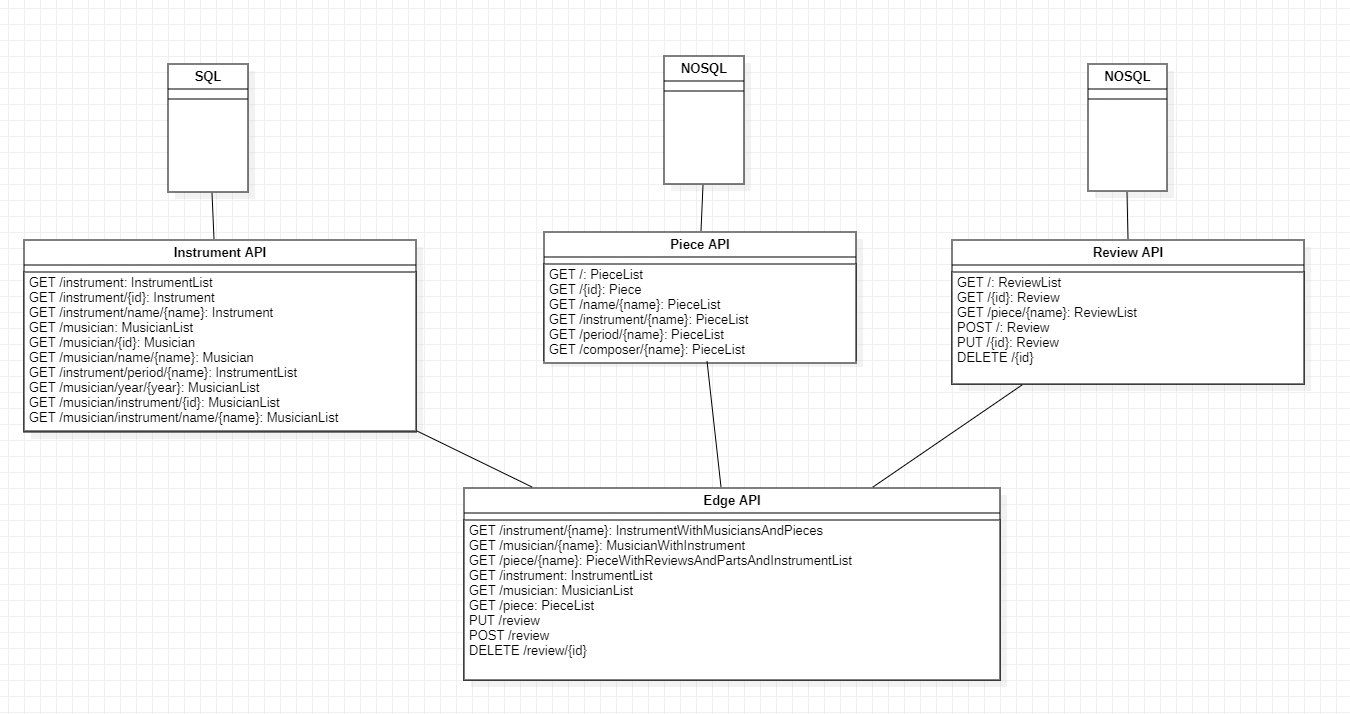
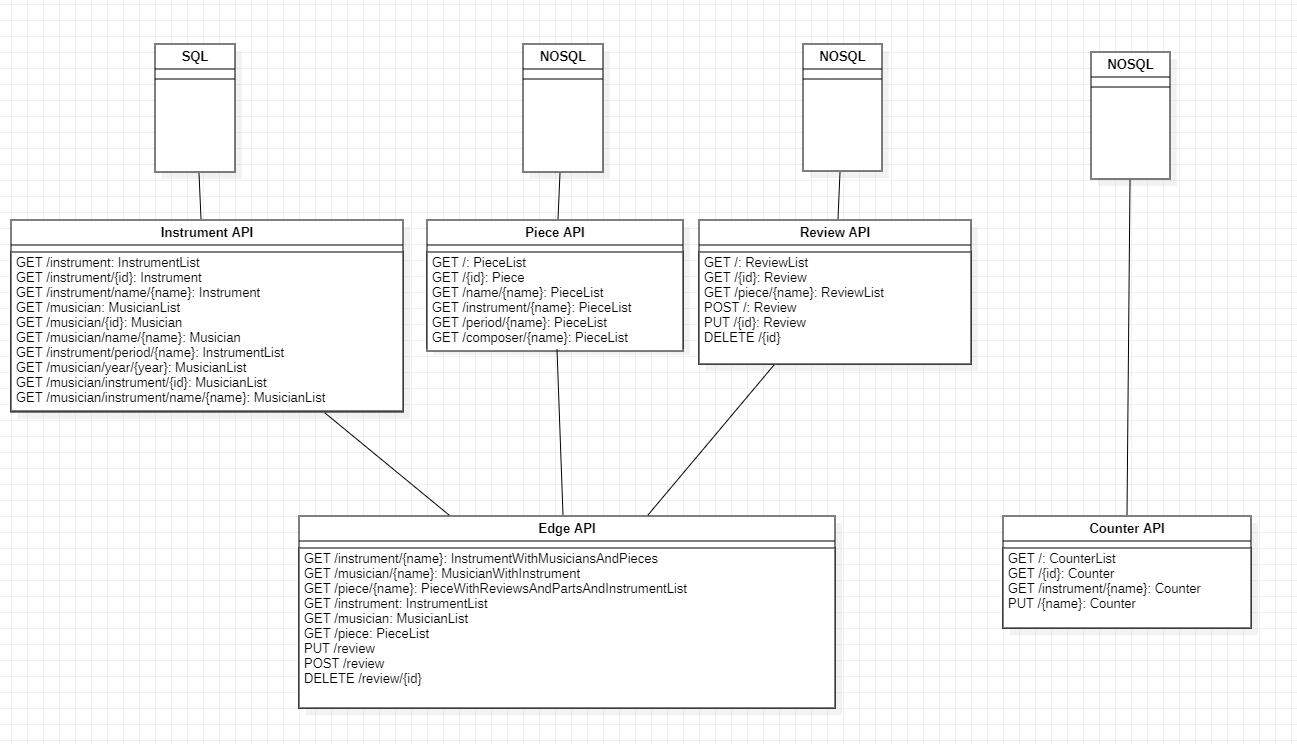
update readme after counter api

diff --git a/README.md b/README.md
@@ -64,7 +64,7 @@ PUT: https://api-edge-johantorfs.cloud.okteto.net/review/{id}
 This endpoint updates an existing Review in the database by Id. The given parameters are:
 - rating
 - comment
-The updated created Review is returned.
+The updated Review is returned.
 ![alt text](https://github.com/JohanTorfs/instrument_edge_api/raw/main/images/ReviewPUT.png "Postman Review PUT")
 
 ### Review DELETE
@@ -72,6 +72,27 @@ DELETE: https://api-edge-johantorfs.cloud.okteto.net/review/{id}
 This endpoint deletes an existing Review in the database by Id.
 The response is empty with status 200.
 ![alt text](https://github.com/JohanTorfs/instrument_edge_api/raw/main/images/ReviewDELETE.png "Postman Review DELETE")
+
+### Counter All
+GET: [https://api-counter-johantorfs.cloud.okteto.net](https://api-counter-johantorfs.cloud.okteto.net)
+This endpoint returns a list of all the Counters in the database. The Counters are used to count how many times an instrument has been scanned.
+![alt text](https://github.com/JohanTorfs/instrument_counter_api/raw/main/images/CounterAll.png "Postman Counter All")
+
+### Counter By Id
+GET: [https://api-counter-johantorfs.cloud.okteto.net/{id}](https://api-counter-johantorfs.cloud.okteto.net/636eb2878c47c67c4119d007)
+This endpoint returns a Counter by Id.
+![alt text](https://github.com/JohanTorfs/instrument_counter_api/raw/main/images/CounterById.png "Postman Counter By Id")
+
+### Counter By Instrument
+GET: [https://api-counter-johantorfs.cloud.okteto.net/instrument/{name}](https://api-counter-johantorfs.cloud.okteto.net/instrument/Guitar)
+This endpoint returns a Counter for a given Instrument by name.
+![alt text](https://github.com/JohanTorfs/instrument_counter_api/raw/main/images/CounterByInstrument.png "Postman Counter By Instrument")
+
+### Counter PUT
+PUT: https://api-counter-johantorfs.cloud.okteto.net/{instrument}
+This endpoint increments an existing Counter. If no Counter exists for the given instrument, a new Counter is created.
+The updated Counter is returned.
+![alt text](https://github.com/JohanTorfs/instrument_counter_api/raw/main/images/CounterPUT.png "Postman Counter PUT")
 
 ## SwaggerUI
 
